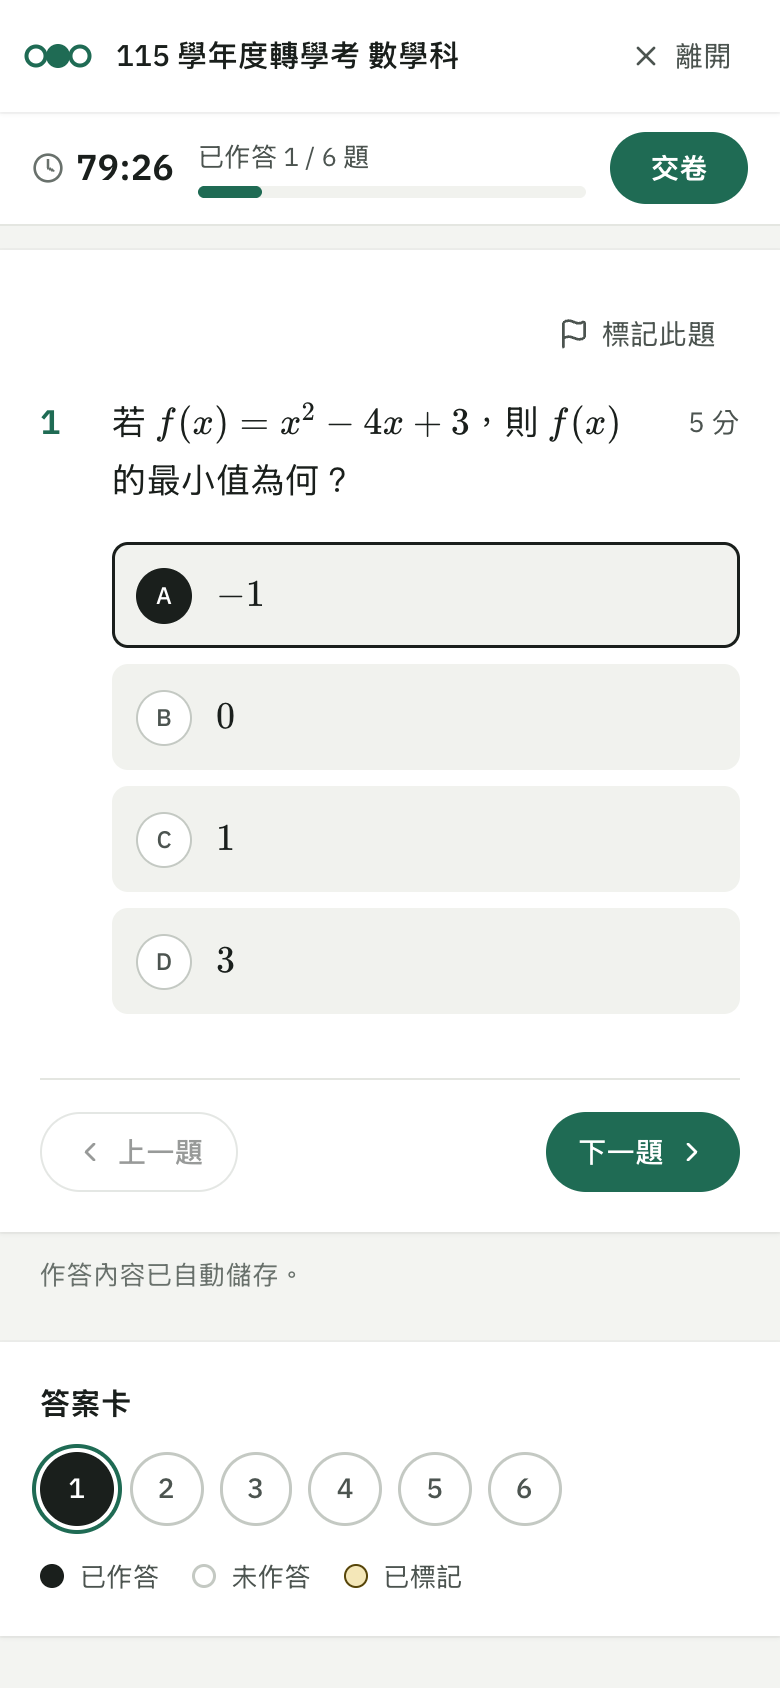
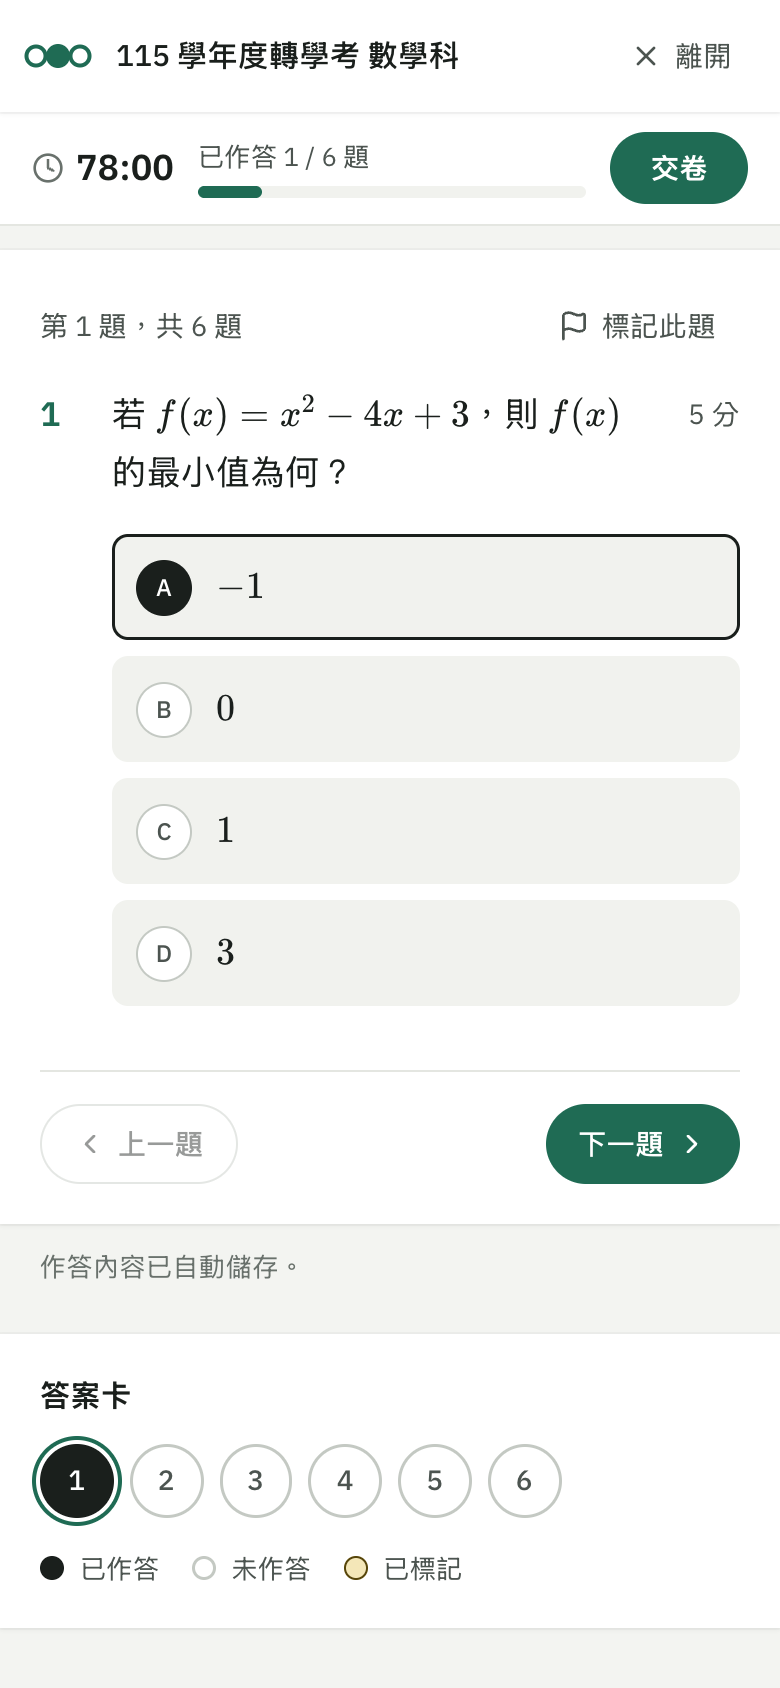
Show the question position beside the flag button
The row held only the flag button, leaving empty space above every question.

diff --git a/testa/src/components/editor/ExamPreview.vue b/testa/src/components/editor/ExamPreview.vue
@@ -315,8 +315,9 @@ function jump(index: number) {
 
       <!-- Answering: one question at a time -->
       <div v-else-if="!submitted && question" class="min-w-0">
-        <section class="bg-paper px-5 pt-6 pb-5 shadow-card sm:px-10 sm:pt-9 md:rounded-card">
-          <p class="mb-3 flex items-center justify-end text-sm text-ink-2">
+        <section class="bg-paper px-5 pt-5 pb-5 shadow-card sm:px-10 sm:pt-7 md:rounded-card">
+          <p class="mb-3 flex items-center justify-between gap-3 text-sm text-ink-2">
+            <span class="tabular-nums">第 {{ current + 1 }} 題，共 {{ questions.length }} 題</span>
             <button
               type="button"
               class="inline-flex h-9 items-center gap-1.5 rounded-full px-3 transition-colors"
